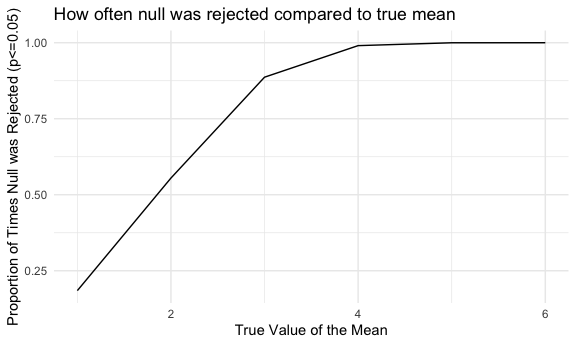
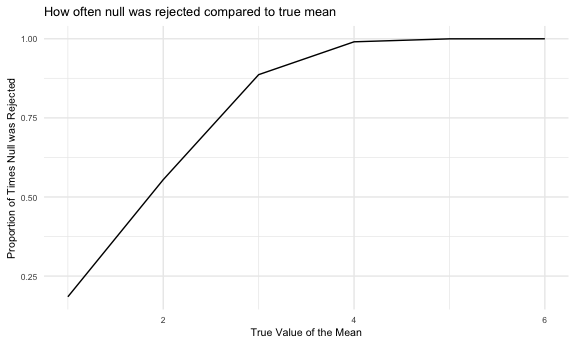
fixing plot labels

diff --git a/p8105_hw5_egb2156.md b/p8105_hw5_egb2156.md
@@ -7,14 +7,14 @@ Emily Bamforth
 library(tidyverse)
 ```
 
-    ## ── Attaching packages ─────────────────────────────────────────────────────────────── tidyverse 1.3.0 ──
+    ## ── Attaching packages ─────────────────────────────────── tidyverse 1.3.0 ──
 
     ## ✓ ggplot2 3.3.2     ✓ purrr   0.3.4
     ## ✓ tibble  3.0.3     ✓ dplyr   1.0.2
     ## ✓ tidyr   1.1.2     ✓ stringr 1.4.0
     ## ✓ readr   1.3.1     ✓ forcats 0.5.0
 
-    ## ── Conflicts ────────────────────────────────────────────────────────────────── tidyverse_conflicts() ──
+    ## ── Conflicts ────────────────────────────────────── tidyverse_conflicts() ──
     ## x dplyr::filter() masks stats::filter()
     ## x dplyr::lag()    masks stats::lag()
 
@@ -291,10 +291,11 @@ p1_df =
 ``` r
 ggplot(p1_df, aes(x = true_mean, y = prop)) +
   geom_line() +
+  theme(text = element_text(size = 8)) +
   labs(
     title = "How often null was rejected compared to true mean",
     x = "True Value of the Mean",
-    y = "Proportion of Times Null was Rejected (p<=0.05)"
+    y = "Proportion of Times Null was Rejected"
   )
 ```
 
@@ -321,6 +322,7 @@ p2_df =
 p2_plot =
   ggplot(p2_df, aes(x = true_mean, y = avg_mean_est)) +
   geom_point() +
+  theme(text = element_text(size = 8)) +
   labs(
     title = "Avg sample mean v true mean",
     x = "True Value of the Mean",
@@ -340,8 +342,9 @@ p3_df =
 p3_plot =
 ggplot(p3_df, aes(x = true_mean, y = avg_mean_est)) +
   geom_point() +
+  theme(text = element_text(size = 8)) +
   labs(
-    title = "Avg sample mean (where null rejected) v true mean",
+    title = "Avg sample mean (null rejected) v true mean",
     x = "True Value of the Mean",
     y = "Avg estimate of sample mean for samples where null rejected"
   )
